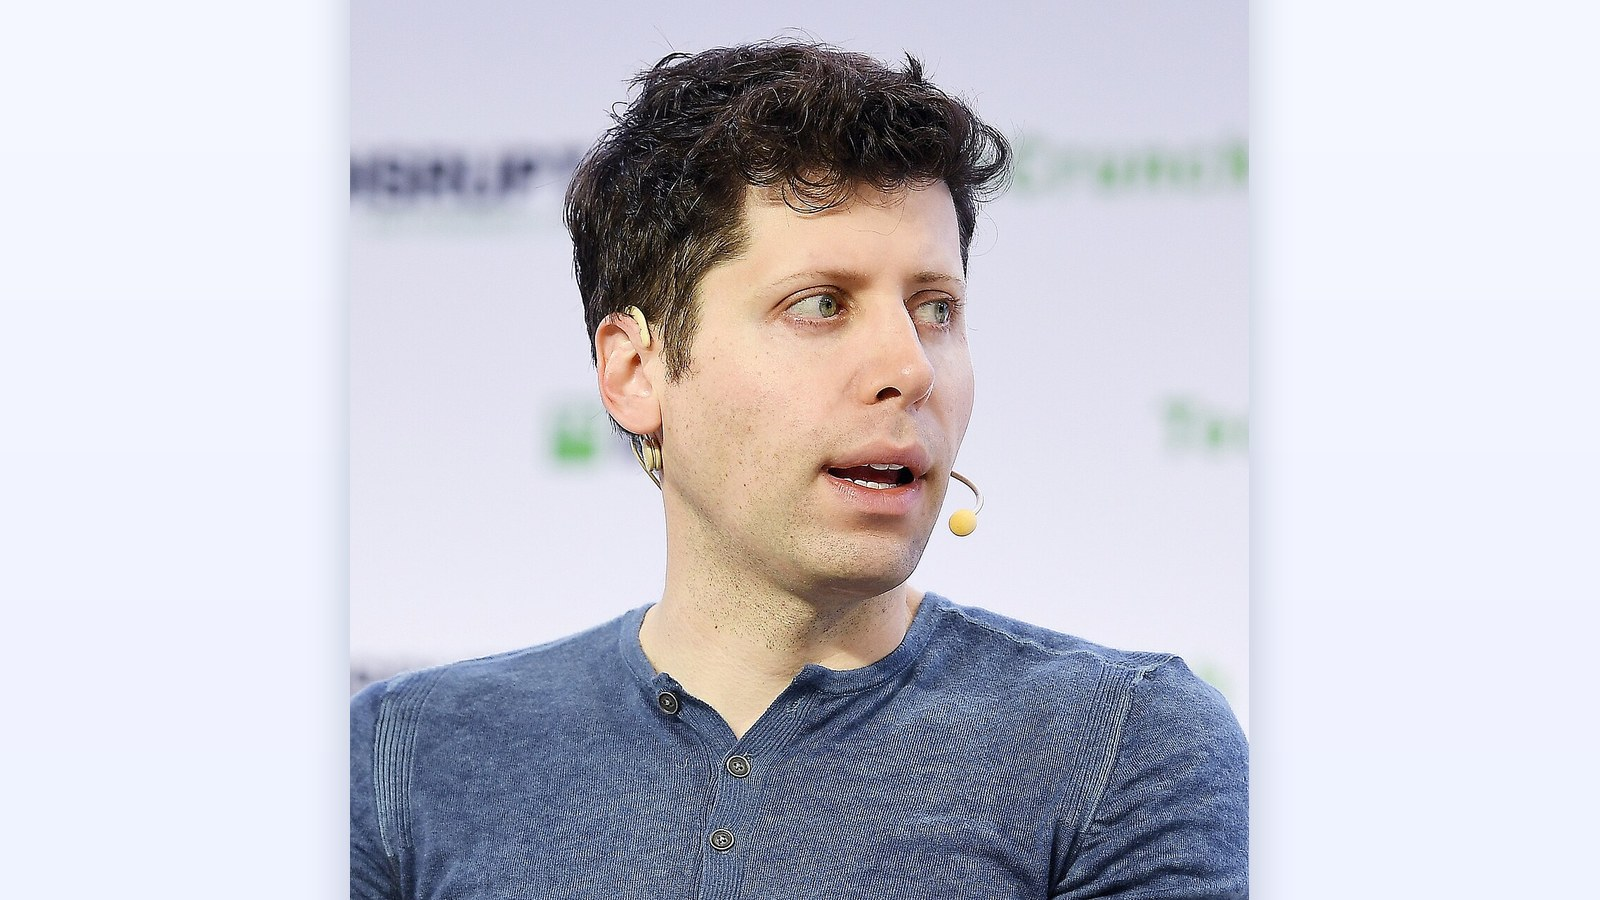
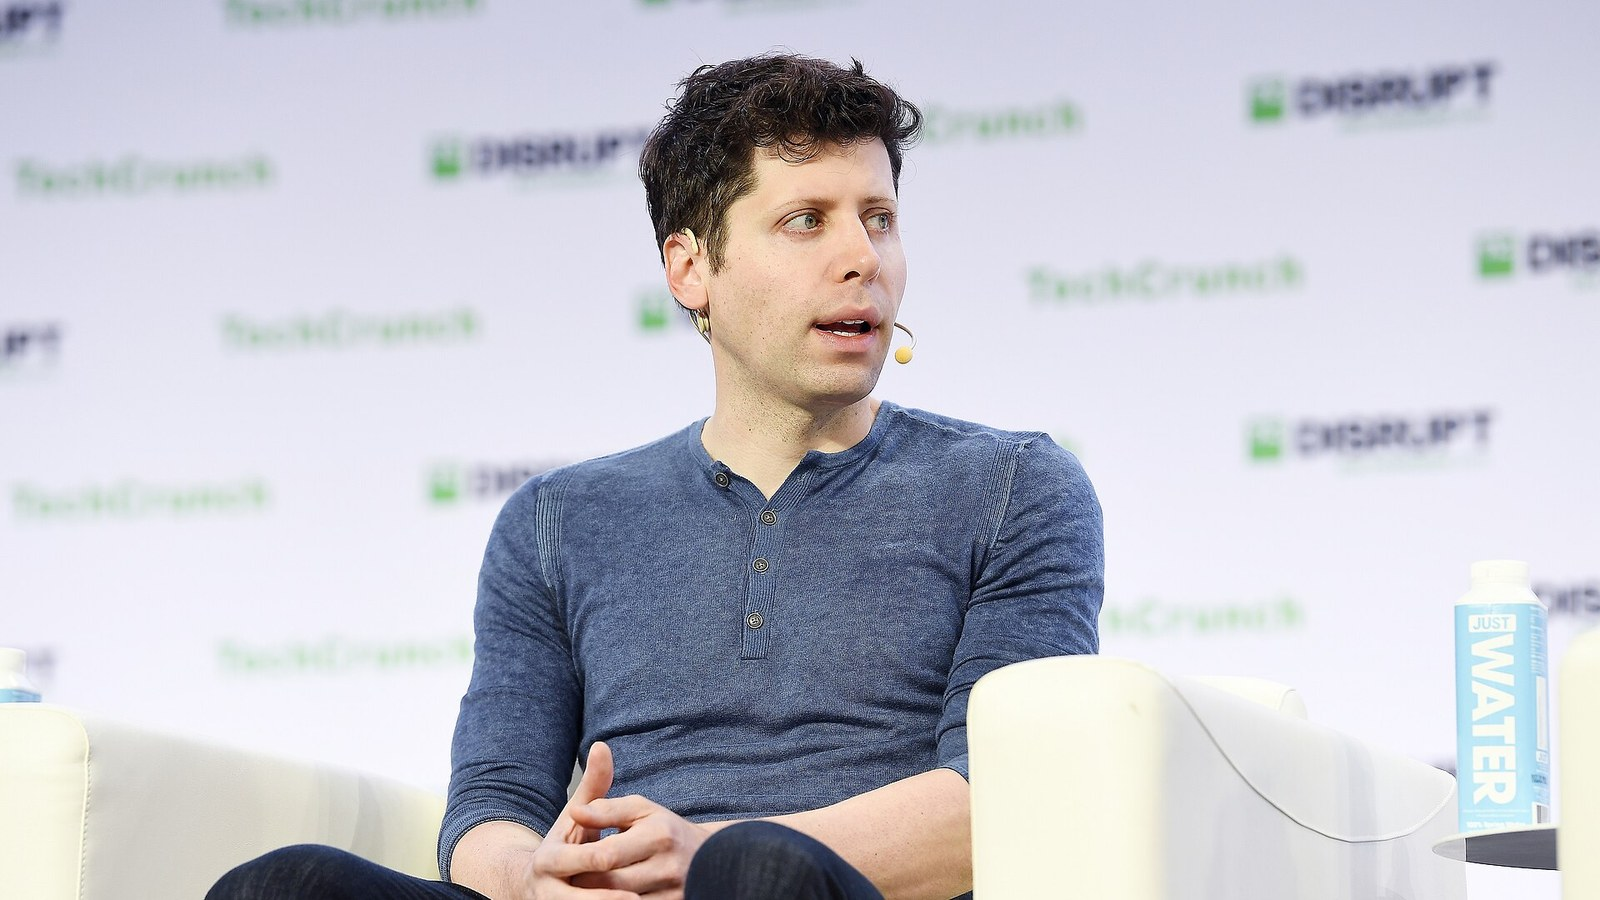
fix(website): crop the two photo covers to 16:9 instead of padding them
Both covers were a portrait photo standing full-height on a panel, so the image
never reached the edges of the 16:9 slot. Crop to 16:9 instead — but from the
uncropped frames on Commons, not from the tight portrait crops we had been
using: a 16:9 slice of a head-and-shoulders crop cuts the forehead off.

- Altman: the full Disrupt SF 2019 frame (Steve Jennings / TechCrunch).
- Garry Tan: the full Web Summit 2018 centre-stage frame (Seb Daly / Web
  Summit via Sportsfile).
- imageCreditHref now points at those source files, and the credit says
  "cropped" only, since nothing is being composited any more.

diff --git a/apps/website/src/lib/blog-data.generated.ts b/apps/website/src/lib/blog-data.generated.ts
@@ -41,8 +41,8 @@ export const BLOG_DATA = [
     "category": "Ideas",
     "author": "ShogunAI",
     "image": "/images/blog/sam-altman-steve-jennings.jpg",
-    "imageCredit": "写真: Steve Jennings / TechCrunch — トリミングし、背景を差し替えて使用",
-    "imageCreditHref": "https://commons.wikimedia.org/wiki/File:Sam_Altman_CropEdit_James_Tamim.jpg",
+    "imageCredit": "写真: Steve Jennings / TechCrunch（TechCrunch Disrupt SF 2019、トリミング）",
+    "imageCreditHref": "https://commons.wikimedia.org/wiki/File:Disrupt_SF_TechCrunch_Disrupt_San_Francisco_2019_-_Day_2_(48838377432).jpg",
     "imageLicense": "CC BY 2.0",
     "imageLicenseHref": "https://creativecommons.org/licenses/by/2.0/",
     "readingMinutes": 10,
@@ -57,8 +57,8 @@ export const BLOG_DATA = [
     "category": "Ideas",
     "author": "ShogunAI",
     "image": "/images/blog/sam-altman-steve-jennings.jpg",
-    "imageCredit": "Photo: Steve Jennings / TechCrunch — cropped and set on a plain background",
-    "imageCreditHref": "https://commons.wikimedia.org/wiki/File:Sam_Altman_CropEdit_James_Tamim.jpg",
+    "imageCredit": "Photo: Steve Jennings / TechCrunch (TechCrunch Disrupt SF 2019) — cropped",
+    "imageCreditHref": "https://commons.wikimedia.org/wiki/File:Disrupt_SF_TechCrunch_Disrupt_San_Francisco_2019_-_Day_2_(48838377432).jpg",
     "imageLicense": "CC BY 2.0",
     "imageLicenseHref": "https://creativecommons.org/licenses/by/2.0/",
     "readingMinutes": 9,
@@ -105,8 +105,8 @@ export const BLOG_DATA = [
     "category": "Ideas",
     "author": "ShogunAI",
     "image": "/images/blog/garry-tan-seb-daly.jpg",
-    "imageCredit": "写真: Seb Daly / Web Summit via Sportsfile（Web Summit 2018）— トリミングし、背景を差し替えて使用",
-    "imageCreditHref": "https://commons.wikimedia.org/wiki/File:Garry_Tan,_Web_Summit_2018,_November_6_SD5_6949_(45700698642)(portrait_4x3_crop).jpg",
+    "imageCredit": "写真: Seb Daly / Web Summit via Sportsfile（Web Summit 2018、トリミング）",
+    "imageCreditHref": "https://commons.wikimedia.org/wiki/File:Web_Summit_2018_-_Centre_Stage,_Day_1_-November_6_SD5_6949_(45700698642).jpg",
     "imageLicense": "CC BY 2.0",
     "imageLicenseHref": "https://creativecommons.org/licenses/by/2.0/",
     "readingMinutes": 11,
@@ -121,8 +121,8 @@ export const BLOG_DATA = [
     "category": "Ideas",
     "author": "ShogunAI",
     "image": "/images/blog/garry-tan-seb-daly.jpg",
-    "imageCredit": "Photo: Seb Daly / Web Summit via Sportsfile (Web Summit 2018) — cropped and set on a plain background",
-    "imageCreditHref": "https://commons.wikimedia.org/wiki/File:Garry_Tan,_Web_Summit_2018,_November_6_SD5_6949_(45700698642)(portrait_4x3_crop).jpg",
+    "imageCredit": "Photo: Seb Daly / Web Summit via Sportsfile (Web Summit 2018) — cropped",
+    "imageCreditHref": "https://commons.wikimedia.org/wiki/File:Web_Summit_2018_-_Centre_Stage,_Day_1_-November_6_SD5_6949_(45700698642).jpg",
     "imageLicense": "CC BY 2.0",
     "imageLicenseHref": "https://creativecommons.org/licenses/by/2.0/",
     "readingMinutes": 10,
@@ -521,8 +521,8 @@ export const BLOG_DATA = [
     "category": "Ideas",
     "author": "ShogunAI",
     "image": "/images/blog/sam-altman-steve-jennings.jpg",
-    "imageCredit": "Photo: Steve Jennings / TechCrunch — cropped and set on a plain background",
-    "imageCreditHref": "https://commons.wikimedia.org/wiki/File:Sam_Altman_CropEdit_James_Tamim.jpg",
+    "imageCredit": "Photo: Steve Jennings / TechCrunch (TechCrunch Disrupt SF 2019) — cropped",
+    "imageCreditHref": "https://commons.wikimedia.org/wiki/File:Disrupt_SF_TechCrunch_Disrupt_San_Francisco_2019_-_Day_2_(48838377432).jpg",
     "imageLicense": "CC BY 2.0",
     "imageLicenseHref": "https://creativecommons.org/licenses/by/2.0/",
     "readingMinutes": 1,
@@ -537,8 +537,8 @@ export const BLOG_DATA = [
     "category": "Ideas",
     "author": "ShogunAI",
     "image": "/images/blog/sam-altman-steve-jennings.jpg",
-    "imageCredit": "Photo: Steve Jennings / TechCrunch — cropped and set on a plain background",
-    "imageCreditHref": "https://commons.wikimedia.org/wiki/File:Sam_Altman_CropEdit_James_Tamim.jpg",
+    "imageCredit": "Photo: Steve Jennings / TechCrunch (TechCrunch Disrupt SF 2019) — cropped",
+    "imageCreditHref": "https://commons.wikimedia.org/wiki/File:Disrupt_SF_TechCrunch_Disrupt_San_Francisco_2019_-_Day_2_(48838377432).jpg",
     "imageLicense": "CC BY 2.0",
     "imageLicenseHref": "https://creativecommons.org/licenses/by/2.0/",
     "readingMinutes": 1,
@@ -585,8 +585,8 @@ export const BLOG_DATA = [
     "category": "Ideas",
     "author": "ShogunAI",
     "image": "/images/blog/garry-tan-seb-daly.jpg",
-    "imageCredit": "Photo: Seb Daly / Web Summit via Sportsfile (Web Summit 2018) — cropped and set on a plain background",
-    "imageCreditHref": "https://commons.wikimedia.org/wiki/File:Garry_Tan,_Web_Summit_2018,_November_6_SD5_6949_(45700698642)(portrait_4x3_crop).jpg",
+    "imageCredit": "Photo: Seb Daly / Web Summit via Sportsfile (Web Summit 2018) — cropped",
+    "imageCreditHref": "https://commons.wikimedia.org/wiki/File:Web_Summit_2018_-_Centre_Stage,_Day_1_-November_6_SD5_6949_(45700698642).jpg",
     "imageLicense": "CC BY 2.0",
     "imageLicenseHref": "https://creativecommons.org/licenses/by/2.0/",
     "readingMinutes": 1,
@@ -601,8 +601,8 @@ export const BLOG_DATA = [
     "category": "Ideas",
     "author": "ShogunAI",
     "image": "/images/blog/garry-tan-seb-daly.jpg",
-    "imageCredit": "Photo: Seb Daly / Web Summit via Sportsfile (Web Summit 2018) — cropped and set on a plain background",
-    "imageCreditHref": "https://commons.wikimedia.org/wiki/File:Garry_Tan,_Web_Summit_2018,_November_6_SD5_6949_(45700698642)(portrait_4x3_crop).jpg",
+    "imageCredit": "Photo: Seb Daly / Web Summit via Sportsfile (Web Summit 2018) — cropped",
+    "imageCreditHref": "https://commons.wikimedia.org/wiki/File:Web_Summit_2018_-_Centre_Stage,_Day_1_-November_6_SD5_6949_(45700698642).jpg",
     "imageLicense": "CC BY 2.0",
     "imageLicenseHref": "https://creativecommons.org/licenses/by/2.0/",
     "readingMinutes": 1,
